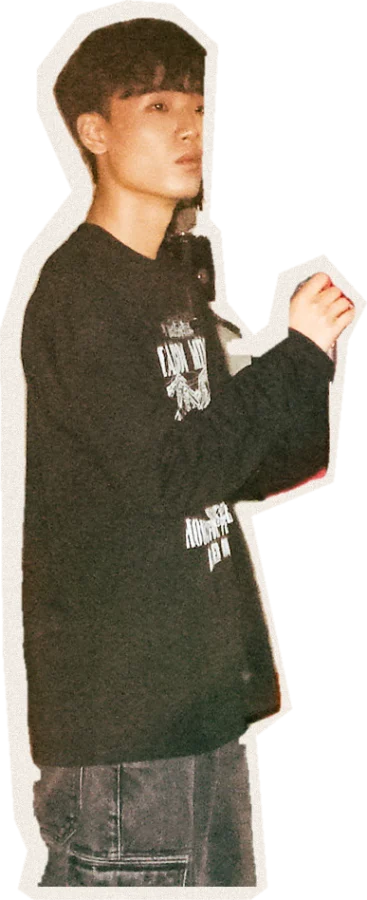
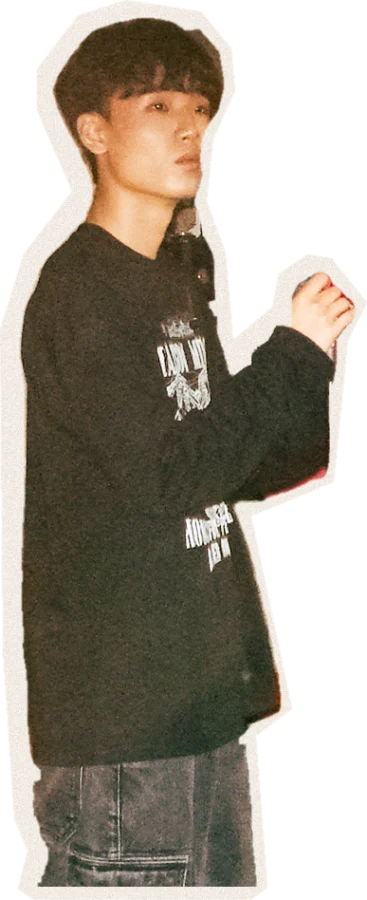
Artists: name order (Latin then 가나다) in every language, fix stale Instagram on cards without one, cleaner 이우찬 cutout
Claude-Session: https://claude.ai/code/session_015zQpSkvZ78uAkqzBCZ1kuX

Changed region(s): [[0.5095, 0.0, 0.6294, 0.28], [0.5695, 0.28, 0.8093, 0.4356]]

diff --git a/index.html b/index.html
@@ -14,7 +14,7 @@
 <meta property="og:locale" content="ko_KR">
 <meta property="og:title" content="RAP-IN 26-2 정기공연 SAGGING 2026">
 <meta property="og:description" content="12월 3일(목) 19:00 경희대 국제캠퍼스 학생회관 소극장. 셋리스트는 11/27(금) 22:00 공개">
-<meta property="og:image" content="https://khu-rapin-26-2.vercel.app/assets/img/og/og-image.jpg?v=11260043">
+<meta property="og:image" content="https://khu-rapin-26-2.vercel.app/assets/img/og/og-image.jpg?v=11260114">
 <meta property="og:image:width" content="1200">
 <meta property="og:image:height" content="630">
 <meta property="og:image:alt" content="SAGGING 2026, 12.03 목 19:00 학생회관 소극장">
@@ -23,18 +23,18 @@
 <meta name="twitter:card" content="summary_large_image">
 <meta name="twitter:title" content="RAP-IN 26-2 정기공연 SAGGING 2026">
 <meta name="twitter:description" content="12월 3일(목) 19:00 경희대 국제캠퍼스 학생회관 소극장. 셋리스트는 11/27(금) 22:00 공개">
-<meta name="twitter:image" content="https://khu-rapin-26-2.vercel.app/assets/img/og/og-image.jpg?v=11260043">
+<meta name="twitter:image" content="https://khu-rapin-26-2.vercel.app/assets/img/og/og-image.jpg?v=11260114">
 
 <link rel="icon" href="favicon.ico" sizes="any">
 <link rel="icon" href="assets/img/favicon-32.png" type="image/png" sizes="32x32">
 <link rel="apple-touch-icon" href="assets/img/apple-touch-icon.png">
 <link rel="preload" href="assets/fonts/PretendardVariable.woff2" as="font" type="font/woff2" crossorigin>
 <link rel="preload" href="assets/audio/bgm.mp3" as="audio" type="audio/mpeg">
-<link rel="stylesheet" href="assets/css/base.css?v=11260043">
-<link rel="stylesheet" href="assets/css/layout.css?v=11260043">
-<link rel="stylesheet" href="assets/css/poster.css?v=11260043">
-<link rel="stylesheet" href="assets/css/program.css?v=11260043">
-<link rel="stylesheet" href="assets/css/panels.css?v=11260043">
+<link rel="stylesheet" href="assets/css/base.css?v=11260114">
+<link rel="stylesheet" href="assets/css/layout.css?v=11260114">
+<link rel="stylesheet" href="assets/css/poster.css?v=11260114">
+<link rel="stylesheet" href="assets/css/program.css?v=11260114">
+<link rel="stylesheet" href="assets/css/panels.css?v=11260114">
 <script>document.documentElement.classList.replace("no-js","js");document.documentElement.classList.add("loading");</script>
 </head>
 <body>
@@ -184,6 +184,6 @@
 <!-- GSAP은 외부 CDN 대신 저장소 안에 같이 둬요 (공연장 와이파이가 불안정해도 동작하게) -->
 <script src="assets/vendor/gsap.min.js" defer></script>
 <script src="assets/vendor/ScrollTrigger.min.js" defer></script>
-<script type="module" src="assets/js/main.js?v=11260043"></script>
+<script type="module" src="assets/js/main.js?v=11260114"></script>
 </body>
 </html>

diff --git a/assets/js/main.js b/assets/js/main.js
@@ -1,13 +1,13 @@
 // 진입점: 데이터 불러오기 → 언어 적용 → 순서표 그리기 → 포스터 모션 시작
-import { loadJSON } from "./data.js?v=11260043";
+import { loadJSON } from "./data.js?v=11260114";
 import { initI18n, t, getLang, onLangChange } from "./i18n.js";
-import { renderInfo } from "./sections/info.js?v=11260043";
-import { renderArtists } from "./sections/artists.js?v=11260043";
-import { renderProgram } from "./sections/program.js?v=11260043";
-import { initPoster } from "./motion/poster.js?v=11260043";
-import { initPanels } from "./sections/panels.js?v=11260043";
-import { initBgm } from "./bgm.js?v=11260043";
-import { initBeat } from "./motion/beat.js?v=11260043";
+import { renderInfo } from "./sections/info.js?v=11260114";
+import { renderArtists } from "./sections/artists.js?v=11260114";
+import { renderProgram } from "./sections/program.js?v=11260114";
+import { initPoster } from "./motion/poster.js?v=11260114";
+import { initPanels } from "./sections/panels.js?v=11260114";
+import { initBgm } from "./bgm.js?v=11260114";
+import { initBeat } from "./motion/beat.js?v=11260114";
 
 const reduced = matchMedia("(prefers-reduced-motion: reduce)").matches;
 if (reduced) document.documentElement.classList.add("reduced");

diff --git a/assets/js/sections/artists.js b/assets/js/sections/artists.js
@@ -124,11 +124,16 @@ function wire() {
 
 export function renderArtists(data, _setlist, lang, t) {
   LANG = lang; if (t) T = t;
-  // 임원진(왕관)은 맨 앞에 정해진 순서대로, 나머지는 들어올 때마다 무작위로 섞어요
+  // 임원진(왕관)은 맨 앞에 정해진 순서대로, 나머지는 이름순 (영어 이름 먼저 A~Z, 그다음 한글 가나다)
   const all = data.artists || [];
   if (!shuffled || shuffled.length !== all.length) {
-    const rest = all.filter((a) => !a.crown);
-    for (let i = rest.length - 1; i > 0; i--) { const j = Math.floor(Math.random() * (i + 1)); [rest[i], rest[j]] = [rest[j], rest[i]]; }
+    const key = (a) => pick(a.name, "ko") || "";
+    const latin = (t) => /^[A-Za-z]/.test(t);
+    const rest = all.filter((a) => !a.crown).sort((x, y) => {
+      const a = key(x), b = key(y);
+      if (latin(a) !== latin(b)) return latin(a) ? -1 : 1;
+      return latin(a) ? a.localeCompare(b, "en", { sensitivity: "base" }) : a.localeCompare(b, "ko");
+    });
     shuffled = [...all.filter((a) => a.crown), ...rest];
   }
   list = shuffled.map((a) => all.find((b) => b.id === a.id) || a);

diff --git a/assets/js/motion/poster.js b/assets/js/motion/poster.js
@@ -5,7 +5,7 @@
 //     .Le        처음 등장 연출
 //     .Li (안쪽)  가만히 있을 때 살랑살랑
 //   스크롤 연출은 레이어들을 담은 .poster-cam 전체에 걸어요.
-import { LAYERS, POSTER_W, POSTER_H } from "./poster-layers.js?v=11260043";
+import { LAYERS, POSTER_W, POSTER_H } from "./poster-layers.js?v=11260114";
 
 const reduced = matchMedia("(prefers-reduced-motion: reduce)").matches;
 // SAGGING 2026 글자 높이 미세 조정 (+면 아래로). 휴대폰(좁은 화면)에서만 조금 더 내려요

diff --git a/assets/js/i18n.js b/assets/js/i18n.js
@@ -1,6 +1,6 @@
 // 언어: 한국어 / English / 中文
 // 문구는 data/i18n/{ko,en,zh}.json 에 있어요. HTML에는 data-i18n="키"만 달면 돼요.
-import { loadJSON } from "./data.js?v=11260043";
+import { loadJSON } from "./data.js?v=11260114";
 
 const LANGS = ["ko", "en", "zh"];
 const KEY = "rapin262-lang";

diff --git a/assets/css/panels.css b/assets/css/panels.css
@@ -262,3 +262,4 @@ html[lang="en"] .ac-school span:first-child, html[lang^="zh"] .ac-school span:fi
   .wall-board .cut-btn { padding-bottom: 18px; }
   .wall-board .crown { width: 26px; height: 18px; left: -9px; top: -17px; }
 }
+.ac-ig[hidden] { display: none !important; }
